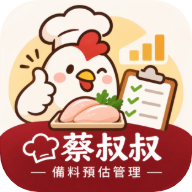
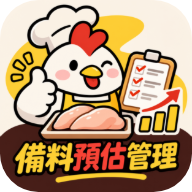
備料預估管理 PWA 圖示更換為新版(主廚雞＋清單＋成長圖＋備料預估管理字樣)
Claude-Session: https://claude.ai/code/session_01S7T7GHRX35LUJU2bncFwCU

diff --git a/sw.js b/sw.js
@@ -1,5 +1,5 @@
 // 網路優先策略：先抓最新，離線才回退快取。每次調整資源時請一併更新 CACHE 版本字串。
-const CACHE = "smart-scheduler-v173";
+const CACHE = "smart-scheduler-v174";
 const ASSETS = ["./", "./index.html", "./admin26.html", "./chicken.html", "./css/main.css", "./js/admin.js", "./js/staff.js", "./js/cloud.js", "./js/chicken.js", "./js/dough-core.js", "./js/update.js", "./js/firebase-config.js", "./manifest.json", "./manifest-chicken.json", "./icons/icon-192.svg", "./icons/icon-512.svg", "./icons/icon_prep_192.png", "./icons/icon_prep_512.png", "./icons/icon_prep_maskable_512.png", "./icons/icon_prep_apple_180.png"];
 
 self.addEventListener("install", e => {
